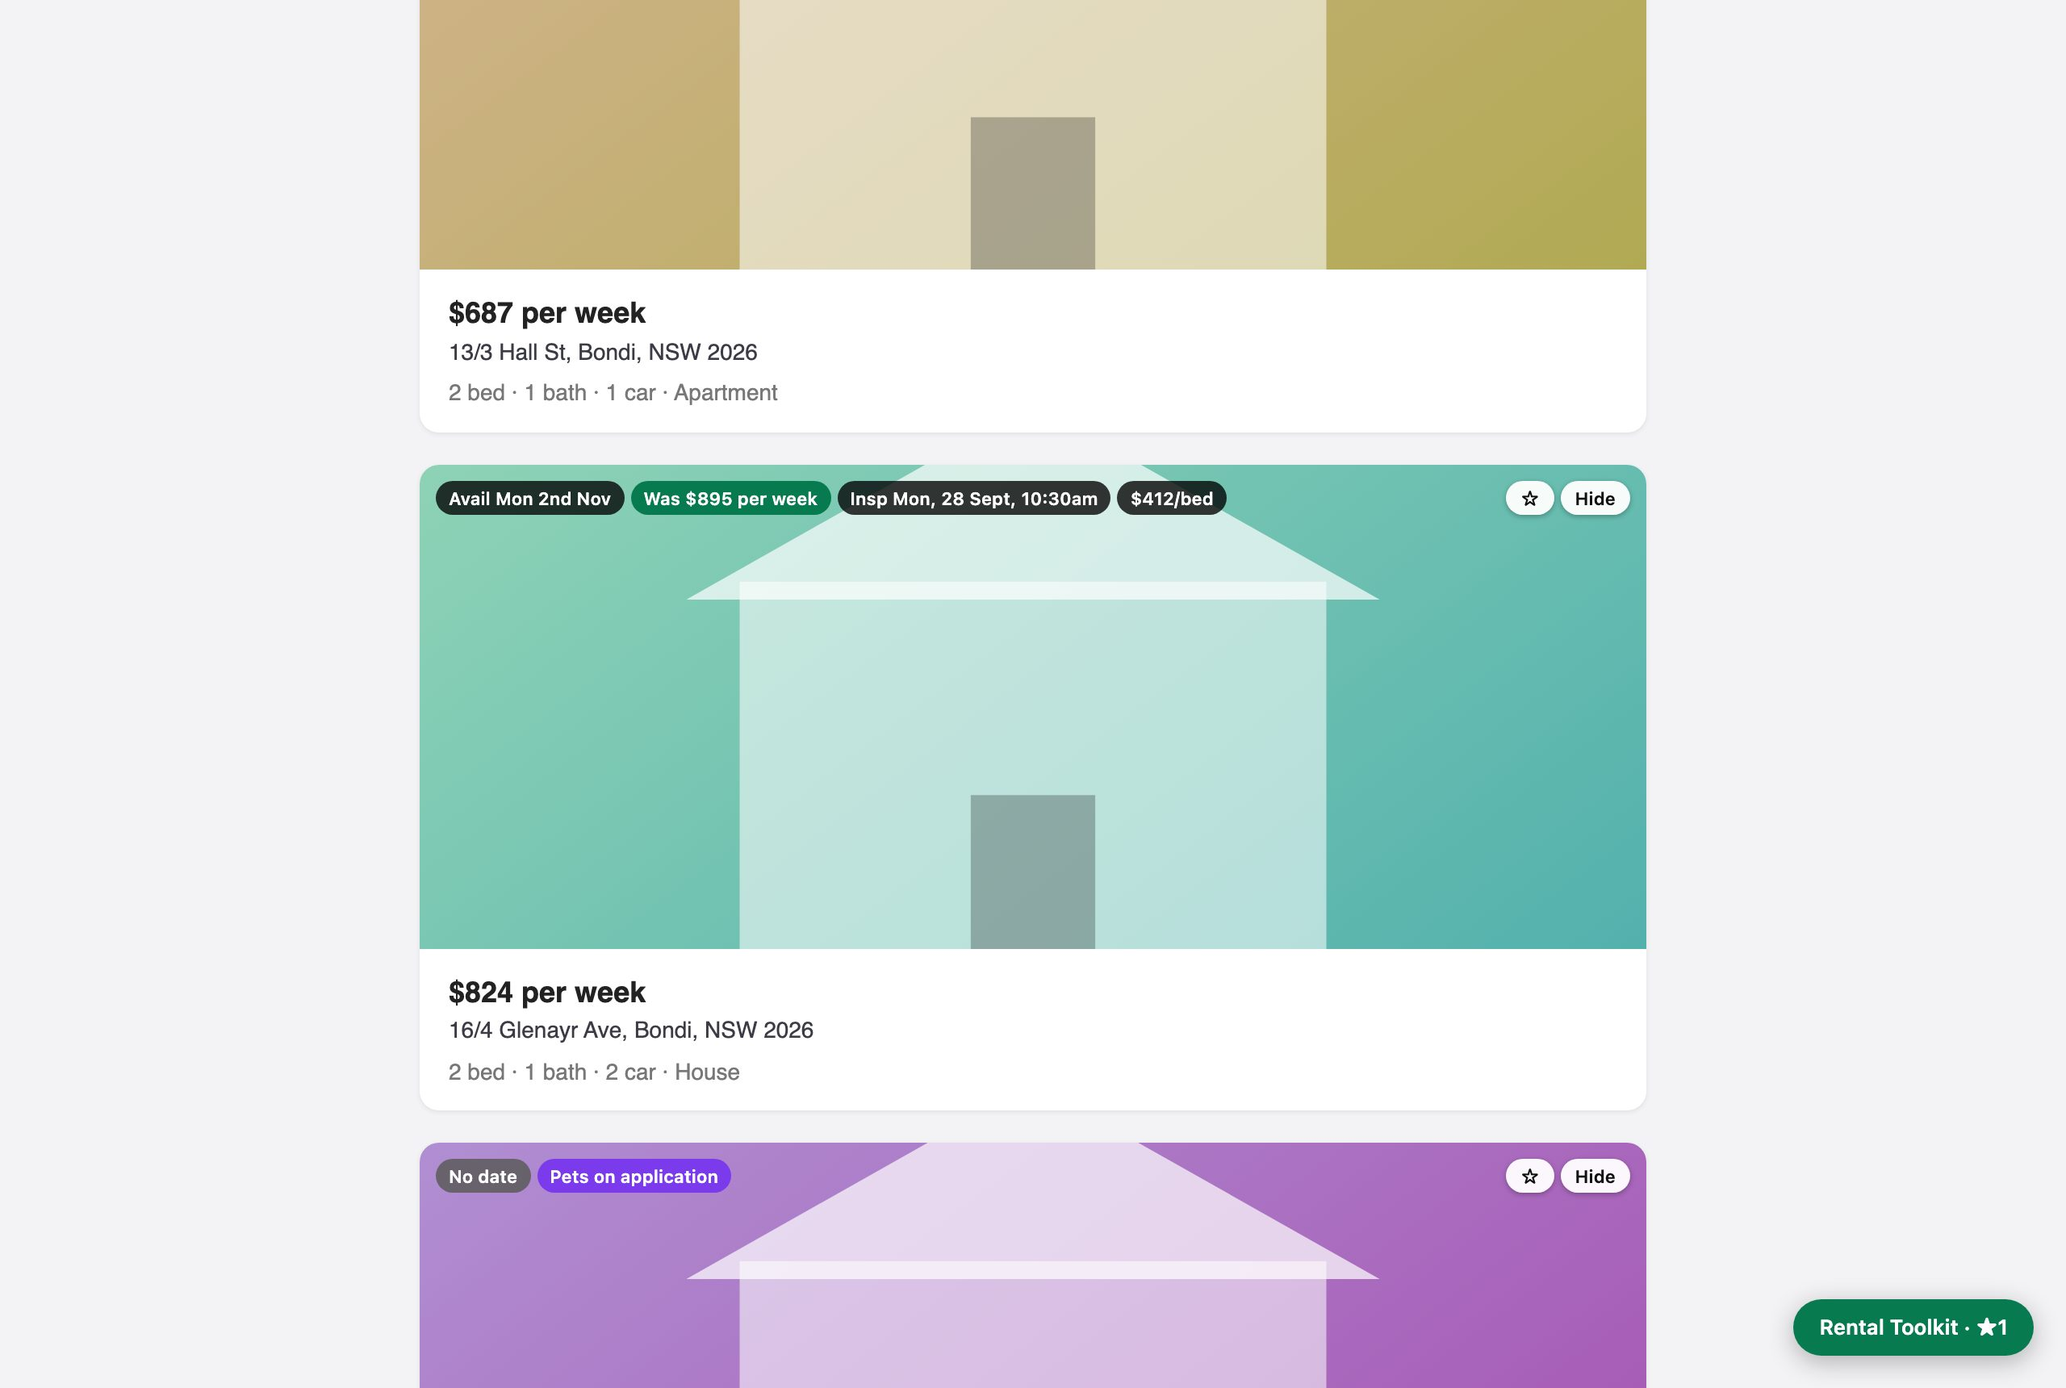
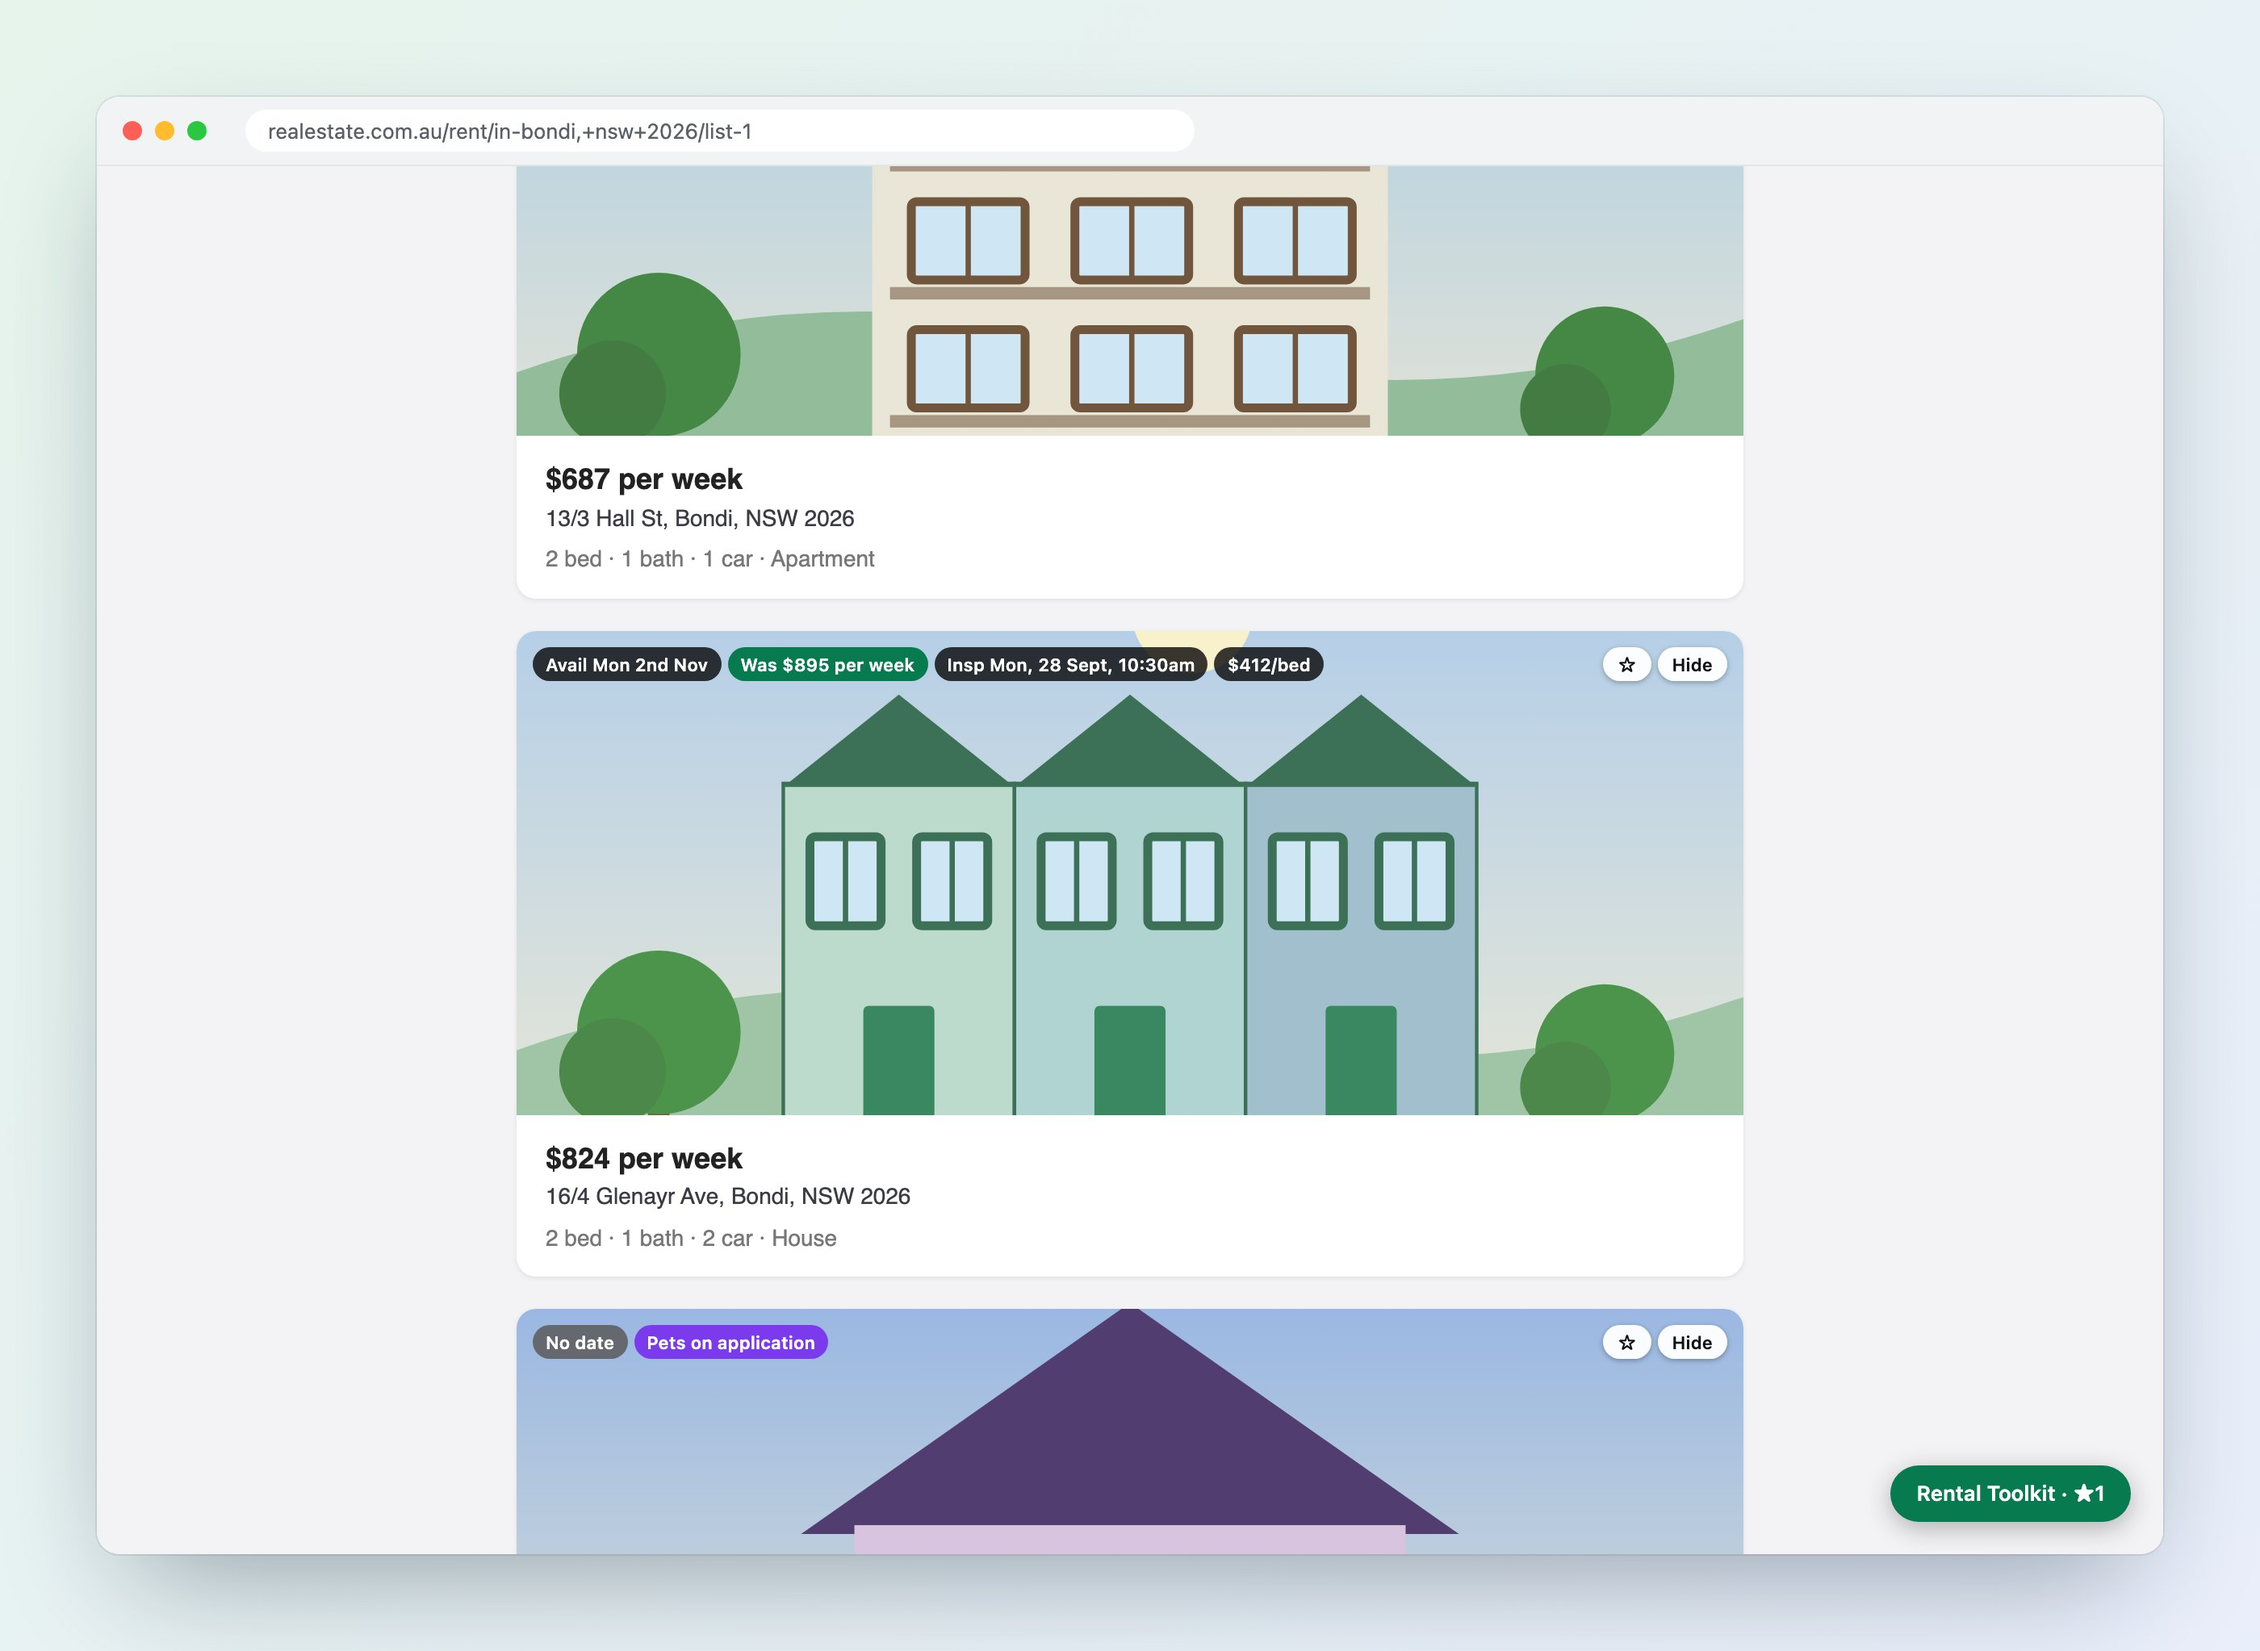
Regenerate screenshots with REA filters shot

diff --git a/test/e2e/screenshots.js b/test/e2e/screenshots.js
@@ -101,6 +101,13 @@ const SEARCH = `${ORIGIN}/rent/in-bondi,+nsw+2026/list-1`;
     await page.fill('#rf-bedsMin', '2'); await page.dispatchEvent('#rf-bedsMin', 'change');
     await page.selectOption('#rf-sort', 'ppb');
   } });
+  // REA's own filters on its search, marked where they leave out listings these filters keep.
+  await shot('rea-filters', { url: `${ORIGIN}/rent/property-unit+apartment-with-2-bedrooms-between-500-900-in-bondi,+nsw+2026/list-1?maxBeds=3&misc=pets-allowed`, act: async (page) => {
+    await page.click('#rf-launch');
+    await page.click('#rf-more summary'); await page.waitForTimeout(50);
+    await page.fill('#rf-priceMax', '1050'); await page.dispatchEvent('#rf-priceMax', 'change');
+    await page.click('#rf-more summary'); await page.waitForTimeout(50);
+  } });
   await shot('dimmed', { act: async (page) => {
     await search(page); await setFrom(page, '2026-10-10');
     await page.click('.rf-x');

diff --git a/README.md b/README.md
@@ -31,23 +31,23 @@ Updates install automatically when `@version` goes up.
 </tr>
 <tr>
 <td width="50%" align="center"><img src="docs/screenshots/filters.jpg" alt="Filters and active-filter chips"><br><sub>Filters and active-filter chips</sub></td>
+<td width="50%" align="center"><img src="docs/screenshots/rea-filters.jpg" alt="REA's own filters, and yours put on its search"><br><sub>REA's own filters, and yours put on its search</sub></td>
+</tr>
+<tr>
 <td width="50%" align="center"><img src="docs/screenshots/shortlist.jpg" alt="Shortlist and price-change tags"><br><sub>Shortlist and price-change tags</sub></td>
-</tr>
-<tr>
 <td width="50%" align="center"><img src="docs/screenshots/shortlist-tab.jpg" alt="Shortlist across searches"><br><sub>Shortlist across searches</sub></td>
+</tr>
+<tr>
 <td width="50%" align="center"><img src="docs/screenshots/compare.jpg" alt="Compare shortlisted listings"><br><sub>Compare shortlisted listings</sub></td>
-</tr>
-<tr>
 <td width="50%" align="center"><img src="docs/screenshots/market.jpg" alt="Market view"><br><sub>Market view</sub></td>
+</tr>
+<tr>
 <td width="50%" align="center"><img src="docs/screenshots/map.jpg" alt="Map view"><br><sub>Map view</sub></td>
-</tr>
-<tr>
 <td width="50%" align="center"><img src="docs/screenshots/listing-bar.jpg" alt="Bar on a listing page"><br><sub>Bar on a listing page</sub></td>
-<td width="50%" align="center"><img src="docs/screenshots/drawer-dark.jpg" alt="Dark mode"><br><sub>Dark mode</sub></td>
 </tr>
 <tr>
-<td width="50%" align="center"><img src="docs/screenshots/mobile.jpg" width="45%" alt="Mobile width"><br><sub>Mobile width</sub></td>
-<td width="50%"></td>
+<td width="50%" align="center"><img src="docs/screenshots/drawer-dark.jpg" alt="Dark mode"><br><sub>Dark mode</sub></td>
+<td width="50%" align="center"><img src="docs/screenshots/mobile.jpg" width="62%" alt="Phone layout"><br><sub>Phone layout</sub></td>
 </tr>
 </table>
 
